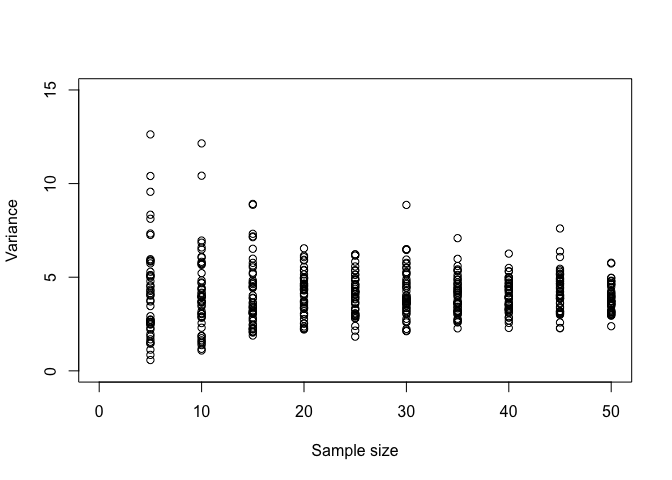
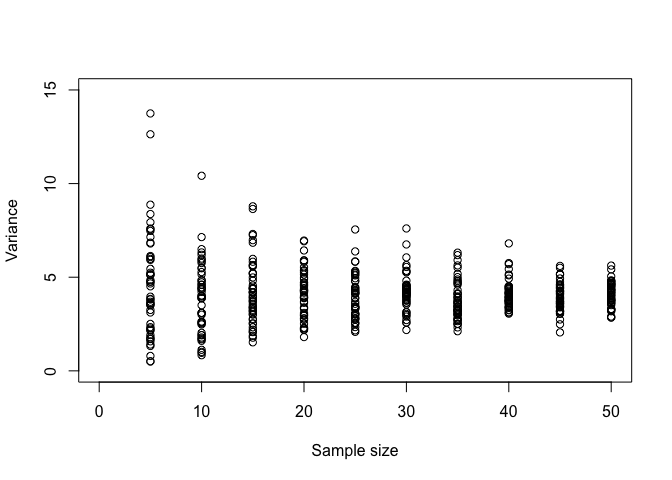
commit

diff --git a/index.html b/index.html
@@ -8,9 +8,6 @@
     <link rel="stylesheet" href="stylesheets/styles.css">
     <link rel="stylesheet" href="stylesheets/github-light.css">
     <meta name="viewport" content="width=device-width">
-    <!--[if lt IE 9]>
-    <script src="//html5shiv.googlecode.com/svn/trunk/html5.js"></script>
-    <![endif]-->
   </head>
   <body>
     <div class="wrapper">
@@ -56,6 +53,6 @@
       </footer>
     </div>
     <script src="javascripts/scale.fix.js"></script>
-    
+
   </body>
 </html>

diff --git a/course-overview.md b/course-overview.md
@@ -1,9 +1,9 @@
-ANT 388 - Applied Data Analysis
+Applied Data Analysis
 ================
 
 ### Practical Statistics, Programming, and Data Science Tools for the Natural and Social Sciences
 
-    UNIQUE # 31403
+    UNIQUE #31403
     Professor Anthony Di Fiore
     Class: Thursdays, 2-5pm, SAC Room 5.112
     Office Hours: Fridays, 2-4pm, SAC Room 4.100H
@@ -14,9 +14,9 @@ ANT 388 - Applied Data Analysis
 Overview
 --------
 
-<img src="img/p-values.png" style="width: 200px; padding: 40px;" align="right"/>
+<img src="img/p-values.png" style="width: 250px; padding-top: 10px; padding-left: 20px; padding-right: 20px; padding-bottom: 10px" align="right"/>
 
-This course provides an overview of methods and tools for applied data analysis. It is geared toward research in biological anthropology, but the material covered is applicable to a wide range of natural and social science disciplines. Students will receive practical, hands-on training in various data science workflows, including digital data acquisition and management, exploratory data analysis and visualization, and statistical analysis and interpretation. Statistical topics to be covered include basic descriptive and inferential statistics, hypothesis testing, regression, and general linear modeling, as well as additional specific methods based on student interest (e.g., geospatial data analysis, phylogenetic comparative methods, social network analysis, corpus construction and text mining, population genetic analysis). The course emphasizes the development of data science skills, focusing on the practical side of data manipulation, analysis, and visualization. Students will learn to use the statistical programming language R as well as other useful software tools (e.g., shell scripts, text editors, databases, query languages, and version control systems).
+This course provides an overview of methods and tools for applied data analysis. It is geared toward research in biological anthropology, but the material covered is applicable to a wide range of natural and social science disciplines. Students will receive practical, hands-on training in various data science workflows, including digital data acquisition and management, exploratory data analysis and visualization, and statistical analysis and interpretation. Statistical topics to be covered include basic descriptive and inferential statistics, hypothesis testing, regression, and general linear modeling, as well as additional specific methods based on student interest (e.g., geospatial data analysis, phylogenetic comparative methods, social network analysis, corpus construction and text mining, population genetic analysis). The course emphasizes the development of data science skills, focusing on the practical side of data manipulation, analysis, and visualization. Students will learn to use the statistical programming language ***R*** as well as other useful software tools (e.g., shell scripts, text editors, databases, query languages, and version control systems).
 
 Prerequisites
 -------------

diff --git a/module-07/module-07.md b/module-07/module-07.md
@@ -158,14 +158,14 @@ In this formula, *n - 1* is the number of *degrees of freedom* implied by the sa
 for (*counter* in *vector*){*code to run*}
 
 ``` r
-> for (n in seq(5,50,5)) # samples of 5, 10, 15...
->   {
->   for(i in 1:50)  # 50 replicates
->       {
->           x<- rnorm(n, mean=10 ,sd=2)
->           points(n,var(x))
->       }
->   }
+> for (n in seq(5, 50, 5)) # samples of 5, 10, 15...
+> {
++     for (i in 1:50) # 50 replicates
++     {
++         x <- rnorm(n, mean = 10, sd = 2)
++         points(n, var(x))
++     }
++ }
 ```
 
 ![](img/unnamed-chunk-9-1.png)
@@ -181,7 +181,7 @@ In ***R*** we can write...
 > pop_sd(x)
 ```
 
-    ## [1] 1.754879
+    ## [1] 2.22373
 
 ``` r
 > sample_sd <- function(x) {
@@ -190,7 +190,7 @@ In ***R*** we can write...
 > sample_sd(x)
 ```
 
-    ## [1] 1.772696
+    ## [1] 2.246306
 
 The built-in ***R*** function `sd()` can be used to calculate the standard deviation of a sample.
 
@@ -222,7 +222,7 @@ or
 > SE1(x)
 ```
 
-    ## [1] 0.250697
+    ## [1] 0.3176756
 
 ``` r
 > SE2 <- function(x) {
@@ -231,7 +231,7 @@ or
 > SE2(x)
 ```
 
-    ## [1] 0.250697
+    ## [1] 0.3176756
 
 The package {sciplot} also includes the function, `se()`, for calculating standard errors (as do others).
 
@@ -240,7 +240,7 @@ The package {sciplot} also includes the function, `se()`, for calculating standa
 > se(x)
 ```
 
-    ## [1] 0.250697
+    ## [1] 0.3176756
 
 ### Calculating confidence intervals from standard errors
 
@@ -294,19 +294,18 @@ Returning to calculating CIs, suppose we have this vector:
 > s <- sd(x)
 > e <- sqrt(v/n)
 > upper <- mean(x) + qnorm(0.975) * se(x)
-> lower <- mean(x) + qnorm(0.025) * se(x)
-> # or lower <- mean(x) - qnorm(0.975)*se(x)
+> lower <- mean(x) + qnorm(0.025) * se(x)  # or lower <- mean(x) - qnorm(0.975)*se(x)
 > ci <- c(lower, upper)
 > ci
 ```
 
     ## [1]  5.736829 10.263171
 
+Or, alternatively...
+
 ``` r
-> # alternatively
 > upper <- m + qnorm(0.975) * e
-> lower <- m + qnorm(0.025) * e
-> # or lower <- m - qnorm(0.975)*e
+> lower <- m + qnorm(0.025) * e  # or lower <- m - qnorm(0.975)*e
 > ci <- c(lower, upper)
 > ci
 ```
@@ -322,9 +321,7 @@ Alternatively, we can define our own generic CI function based on the normal dis
 +     ci <- c(lower, upper)
 +     return(ci)
 + }
-> 
-> # call the function
-> normalCI(x, 0.95)
+> normalCI(x, 0.95)  # call the function
 ```
 
     ## [1]  5.736829 10.263171
@@ -365,4 +362,4 @@ The `quantile()` function returns, for your set of data, the observations satisf
 #### CHALLENGE 5:
 
 -   How does the CI calculated this way, by simulation, compares to that calculated based on assuming a normal distribution?
--   How does the width of the CI change with decreasing or increasing **n** (the number of observations drawn from your sample with replacement)? For example, if we set n at 5? At 50? At 500?
+-   How does the width of the CI change with decreasing or increasing **n** (the number of observations drawn from your sample with replacement)? For example, if we set **n** at 5? At 50? At 500?
